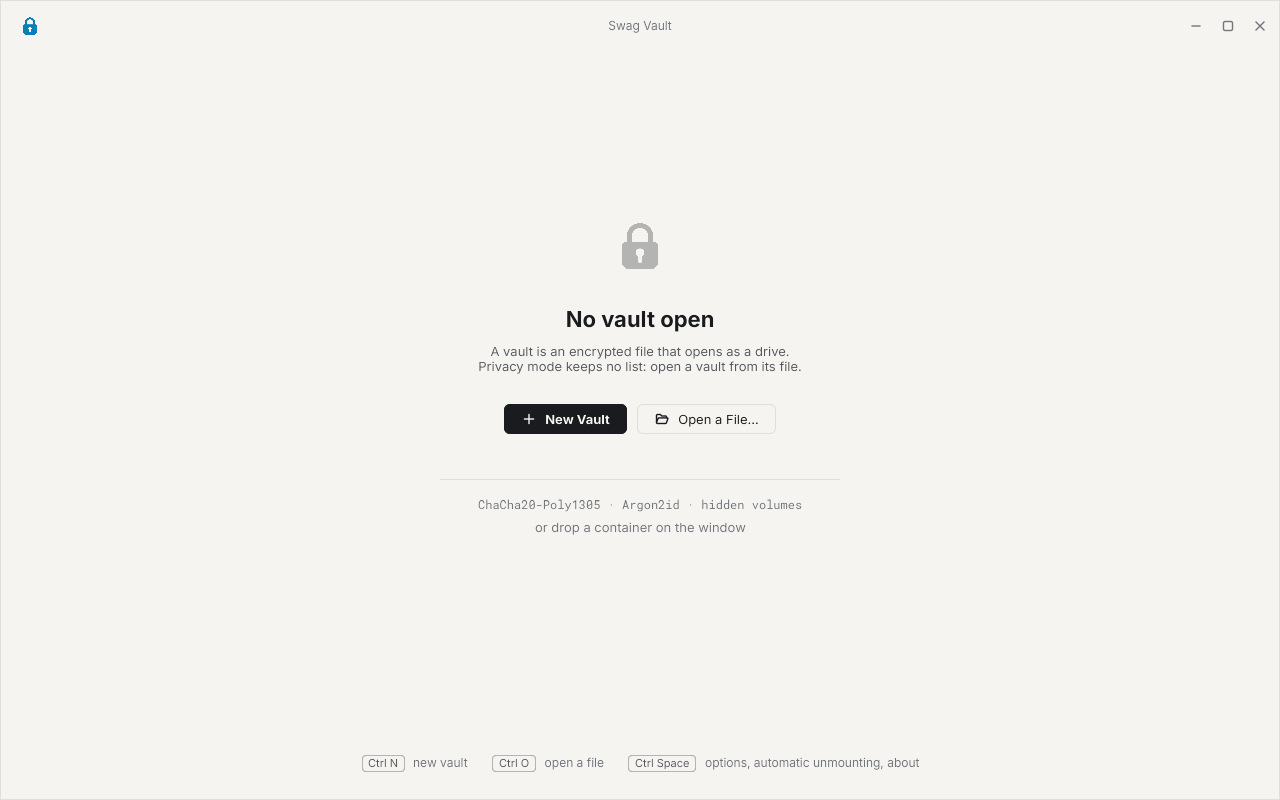
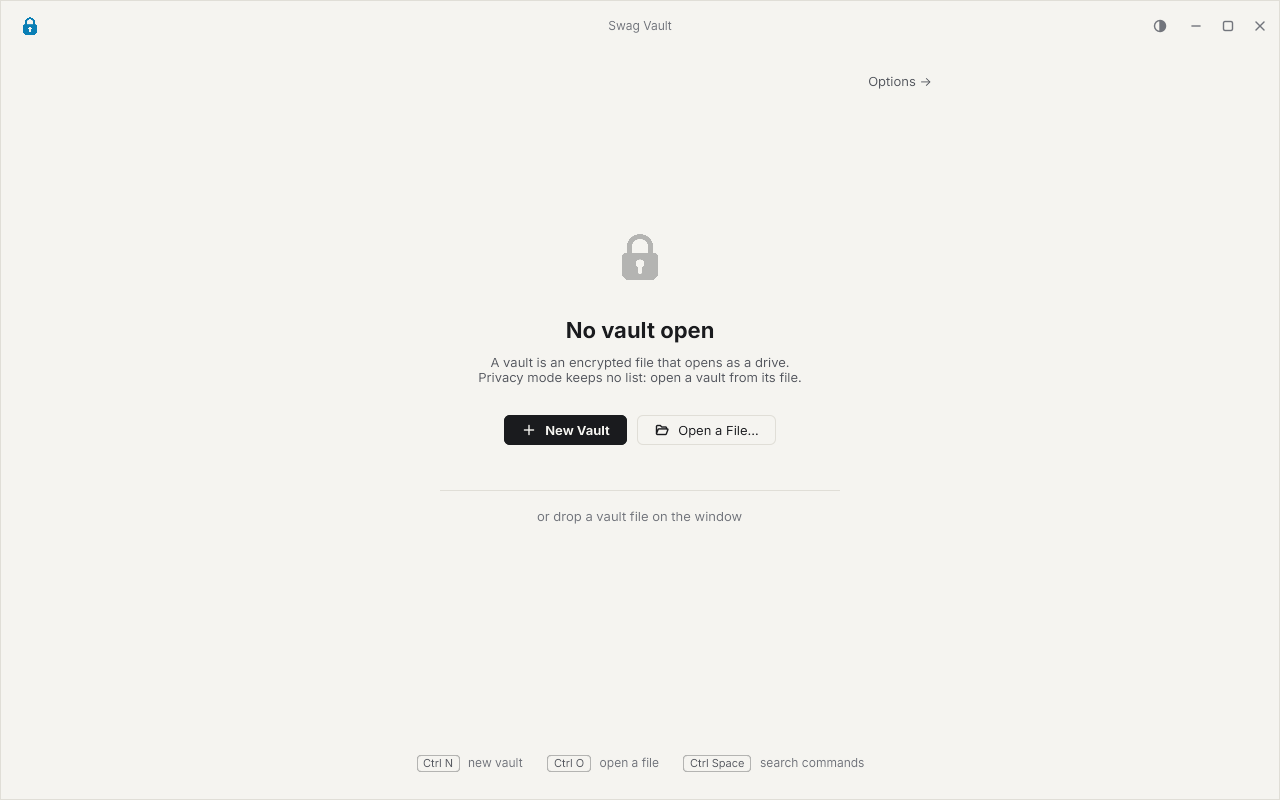
Move Swag Vault algorithm details to About

diff --git a/backlog/design/silence/README.md b/backlog/design/silence/README.md
@@ -902,9 +902,9 @@ the screen to its work.
   is the home: the mark, large and faint, gives the page its centre; a title (22, bold) says that no
   vault is there or open, and two soft lines say what a vault is, then what it keeps or that
   privacy mode keeps no list. Under them "New Vault" is the one primary action of the screen, with
-  "Open a File…" beside it as a secondary button. Under a hairline, a faint foot names the ciphers
-  in mono and recalls that a container can be dropped on the window. The hint line teaches
-  `Ctrl N` and `Ctrl O` before `Ctrl Space`.
+  "Open a File…" beside it as a secondary button. Under a hairline, a faint hint says that a
+  vault file can be dropped on the window. About describes the algorithms that protect the vault.
+  The hint line teaches `Ctrl N` and `Ctrl O` before `Ctrl Space`.
 - Create, progress and options are pages with a back link, not tabs: a calm form with the
   capacity in large type; the randomisation progress as a huge percentage over an Arc line;
   options as rows with a title, a help paragraph and an Arc switch.
